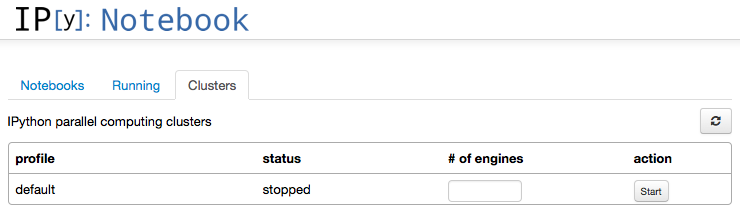
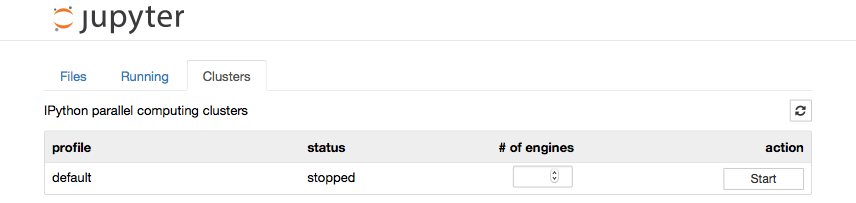
update slide

diff --git a/slides/index.html b/slides/index.html
@@ -362,35 +362,50 @@ pip3 install ipython[all]</code>
 
     <section id="win-setup-anaconda" class="slide"><div>
       <h2>Serious (scientific env) setup on Windows</h2>
+      <ul>
+        <li>If you can't come up a solution, <strong>use Miniconda / Anaconda</strong>.</li>
+        <li>I wrote a small installation note on <a href="https://www.ptt.cc/bbs/Python/M.1422708625.A.497.html" target="_blank">ptt</a>.</li>
+      </ul>
+      <pre>
+      <code>conda install ipython-notebook</code>
+      </pre>
+      <p class="note">IPython notebook will launch a web browser and listen http://localhost:8888</p>
     </div></section>
 
     <section id="ipy-overview" class="slide"><div>
-        <h2 class="tighter">Overview</h2>
-        <img src="pics/IPyParallel_Overview.png" width="90%" alt="">
-        <pre class="language-ipython3 small">
-<code>In[1]: from IPython.parallel import Client
-       rc = Client() # connect controller
-In[2]: dview = rc[:] # return a View</code></pre>
+      <h2 class="tighter">Overview</h2>
+      <img src="pics/IPyParallel_Overview.png" width="90%" alt="">
+      <pre class="language-ipython3 small">
+        <code>In[1]: from IPython.parallel import Client
+  ...: rc = Client() # connect controller
+In[2]: dview = rc[:] # return a View</code>
+      </pre>
     </div><style>
-        #ipy-overview pre {
-            position: absolute;
-            top: 115px;
-            right: 175px;
-            border: 2px solid black;
-            padding: 0 5px;
-        }
+      #ipy-overview pre {
+        position: absolute;
+        top: 115px;
+        right: 175px;
+        border: 2px solid black;
+        padding: 0 5px;
+      }
     </style></section>
 
     <section id="ipy-start-cluster" class="slide"><div>
-        <h2 class="tighter">Start IPython Cluster</h2>
-        <pre class="language-bash tighter small">
-<code>$ ipcluster3 start
+      <h2 class="tighter">Start IPython Cluster</h2>
+      <pre class="language-bash tighter small">
+        <code>$ ipcluster start
 # [IPClusterStart] Using existing profile dir: '.../profile_default'
 # [IPClusterStart] Starting ipcluster with [daemon=False]
-# ... (automatically set up controller and engines locally)</code></pre>
-<p class="tighter">Or use IPython Notebook to start</p>
-<img src="pics/ipynb_cluster.png" alt="">
-    </div></section>
+# ... (automatically set up controller and engines locally)</code>
+      </pre>
+      <p class="tighter">Or use IPython Notebook to start</p>
+      <img src="pics/ipynb_cluster.png" alt="">
+    </div><style>
+      #ipy-start-cluster img {
+        width: 100%;
+      }
+    </style>
+    </section>
 
     <section id="ipy-demo" class="slide"><div>
         <pre class="language-ipython3 full-page">
@@ -423,9 +438,9 @@ Out[4]: [0, 1, 2, 3, 4, 5, 6, 7]
 
     <section id="ipy-nb" class="slide"><div>
         <h2>More in demo code</h2>
-        <p>Or this <a href="http://nbviewer.ipython.org/github/ccwang002/2014-handy-dist-computing/blob/master/demo_code/ipy-parallel/Hello_IPyParallel.ipynb">online IPython notebook</a> (hosted by Notebook Viewer)</p>
+        <p>Or this <a href="http://nbviewer.ipython.org/github/ccwang002/2015Talk-IPython-Parallel/blob/master/demo_code/ipy-parallel/Hello_IPyParallel.ipynb">online IPython notebook</a> (hosted by Notebook Viewer)</p>
         <p class="tighter">You can use ipython notebook and actually <i>run</i> it.</p>
-        <pre class="language-bash tighter"><code>ipython3 notebook
+        <pre class="language-bash tighter"><code>ipython notebook
 # Luanch IPython notebook server
 # on http://localhost:8888/
 # ... (terminated by Ctrl-C/Ctrl-Z)</code></pre>
